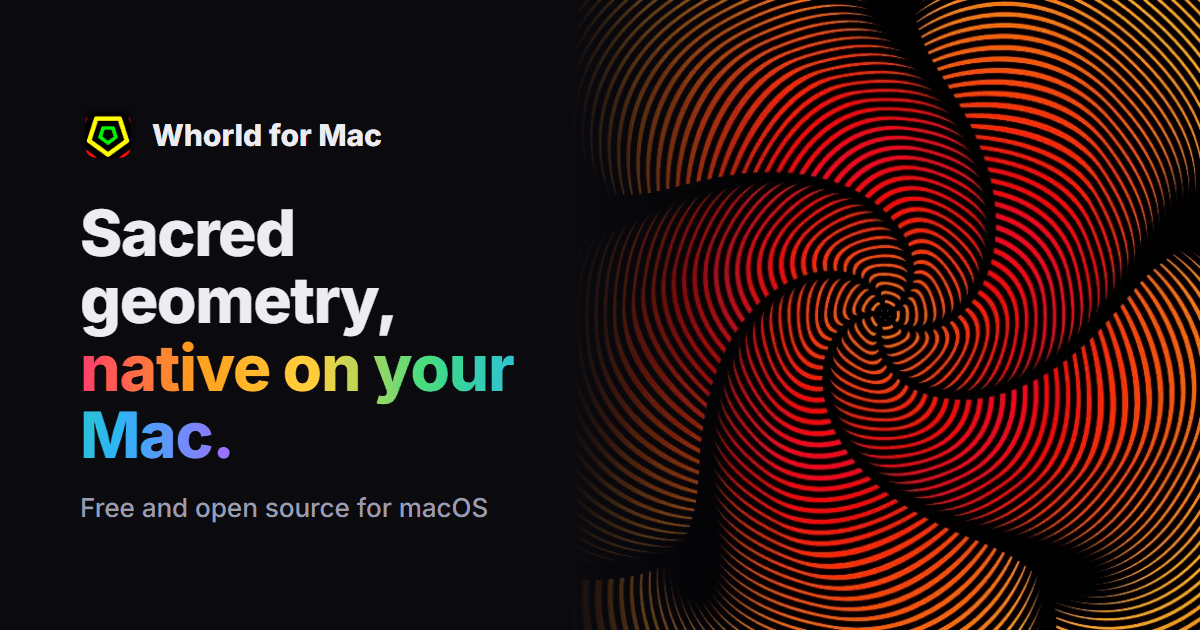
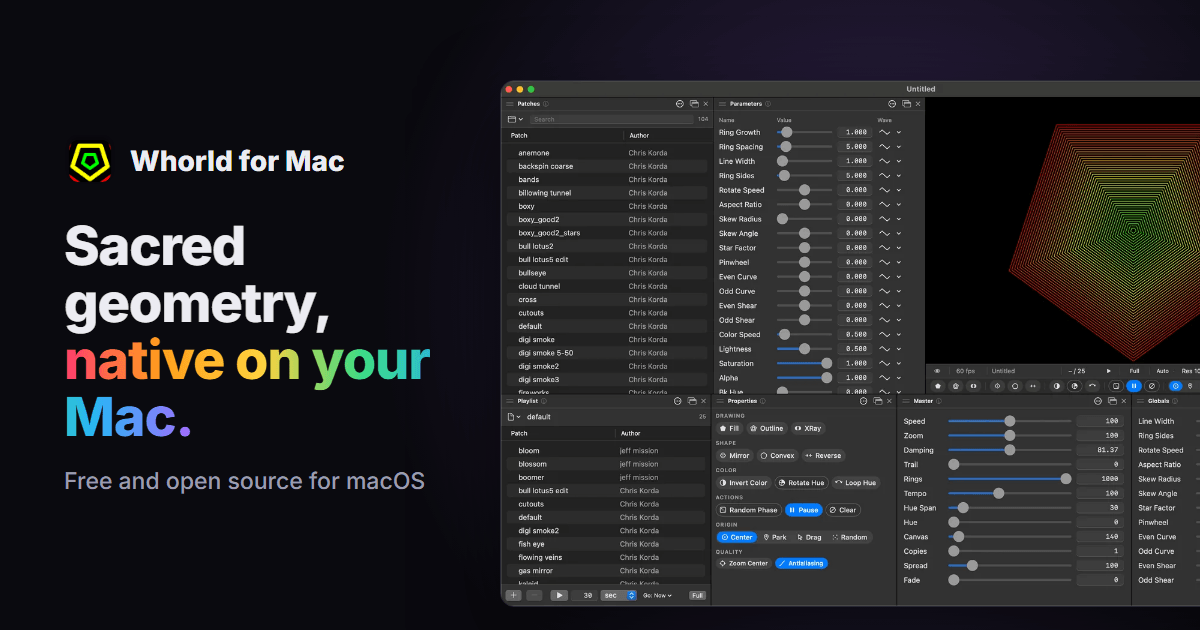
Website: "The app" section with a screenshot of the Mac app, also the social preview

diff --git a/site/social-preview.html b/site/social-preview.html
@@ -18,19 +18,22 @@
 <link href="https://fonts.googleapis.com/css2?family=Inter:wght@500;800&display=swap" rel="stylesheet">
 <style>
   html, body { margin: 0; width: 1200px; height: 630px; overflow: hidden; }
-  body {
-    background: #0a0a0f; color: #ececf2; font-family: Inter, system-ui, sans-serif;
-    display: grid; grid-template-columns: 1fr 630px; align-items: center;
+  body { background: #0a0a0f; color: #ececf2; font-family: Inter, system-ui, sans-serif; position: relative; }
+  body::before {
+    content: ""; position: absolute; left: 380px; top: -200px; width: 1000px; height: 1000px;
+    background: radial-gradient(closest-side, rgba(166,108,255,.28), transparent);
   }
-  .text { padding: 0 40px 0 80px; }
-  .brand { display: flex; align-items: center; gap: 16px; font-weight: 800; font-size: 30px; }
-  .brand img { width: 56px; height: 56px; }
-  h1 { font-size: 64px; line-height: 1.05; letter-spacing: -.02em; margin: 36px 0 24px; font-weight: 800; }
+  .text { position: absolute; left: 64px; top: 0; bottom: 0; width: 400px; display: flex; flex-direction: column; justify-content: center; }
+  .brand { display: flex; align-items: center; gap: 14px; font-weight: 800; font-size: 28px; }
+  .brand img { width: 52px; height: 52px; }
+  h1 { font-size: 54px; line-height: 1.06; letter-spacing: -.02em; margin: 30px 0 22px; font-weight: 800; }
   h1 span { background: linear-gradient(90deg, #ff3d6e, #ff9f1c, #ffd23f, #3ddc84, #29b6f6, #a66cff); -webkit-background-clip: text; background-clip: text; color: transparent; }
-  p { margin: 0; color: #9c9cae; font-size: 26px; font-weight: 500; }
-  .art { width: 630px; height: 630px; position: relative; }
-  .art img { width: 100%; height: 100%; object-fit: cover; display: block; }
-  .art::before { content: ""; position: absolute; inset: 0; background: linear-gradient(90deg, #0a0a0f, transparent 35%); }
+  p { margin: 0; color: #9c9cae; font-size: 23px; font-weight: 500; }
+  .shot {
+    position: absolute; left: 500px; top: 80px; width: 840px;
+    border-radius: 14px; border: 1px solid #272733;
+    box-shadow: 0 30px 80px rgba(0,0,0,.6);
+  }
 </style>
 </head>
 <body>
@@ -39,6 +42,6 @@
     <h1>Sacred geometry, <span>native on your Mac.</span></h1>
     <p>Free and open source for macOS</p>
   </div>
-  <div class="art"><img src="img/bloom.webp" alt=""></div>
+  <img class="shot" src="img/app-1400.webp" alt="">
 </body>
 </html>

diff --git a/site/index.html b/site/index.html
@@ -161,6 +161,12 @@
   }
   .card .ico svg { width: 20px; height: 20px; }
 
+  /* The app */
+  .shot {
+    width: 100%; border-radius: 12px; border: 1px solid var(--border);
+    box-shadow: 0 20px 60px rgba(0,0,0,.35); background: #1e1e1e;
+  }
+
   /* Gallery */
   .gallery { display: grid; gap: 12px; grid-template-columns: repeat(4, minmax(0, 1fr)); margin: 0; padding: 0; list-style: none; }
   @media (max-width: 760px) { .gallery { grid-template-columns: repeat(2, minmax(0, 1fr)); } }
@@ -217,6 +223,7 @@
       Whorld for Mac
     </a>
     <div class="links">
+      <a href="#app">The app</a>
       <a href="#features">Features</a>
       <a href="#gallery">Gallery</a>
       <a href="#install">Install</a>
@@ -258,6 +265,19 @@
     </div>
   </div>
 </header>
+
+<section id="app" class="alt">
+  <div class="wrap">
+    <h2>The app</h2>
+    <p class="sub">The picture sits among panels for patches, parameters, the playlist and properties. Drag them to dock, float or tab them, and switch between layouts with a key.</p>
+    <img class="shot"
+      src="img/app-1400.webp"
+      srcset="img/app-800.webp 800w, img/app-1400.webp 1400w, img/app-2100.webp 2100w"
+      sizes="(max-width: 1080px) calc(100vw - 32px), 1048px"
+      width="1400" height="875" loading="lazy"
+      alt="Whorld's window on a Mac: the Patches list, Parameters sliders, Playlist, Properties, Master and Globals panels around the picture, which shows nested pentagons shading from red to green.">
+  </div>
+</section>
 
 <section id="features">
   <div class="wrap">

diff --git a/CLAUDE.md b/CLAUDE.md
@@ -41,8 +41,8 @@ Run the engine tests after every engine change. Build the app after every change
 https://whorld.sqrl.biz is the hand-written page in `site/` (one `index.html`, no build step), published to GitHub Pages by `.github/workflows/pages.yml` on every push to `main` that touches `site/`. It's in `site/`, not `docs/`, because `docs/` is the original Whorld's website from upstream: leave it alone. The custom domain is set in the repository's Pages settings (with a workflow, a `CNAME` file isn't used); its DNS is a proxied `whorld` record in the sqrl.biz Cloudflare zone (like oopl and oscvlc), so Cloudflare, not GitHub, serves the HTTPS certificate and GitHub's "Enforce HTTPS" stays off. The page matches the user's other project sites (glim, oopl and oscvlc.sqrl.biz): Inter, dark by default with a light theme, and the Made with AI badge.
 
 - The Download button finds the newest full release's `.dmg` (or, while there is none, the newest pre-release's) through GitHub's API, so it needs no edit per release. Edit the page when features change.
-- Images: `site/img/*.webp` are the centre 640×640 of the golden exports in `mac/testdata/golden` (plus 320px copies); `img/icon-128.png`, `favicon.png` and `apple-touch-icon.png` come from `AppIcon.icns`. Prefer real Mac screenshots if the user supplies some.
-- `site/social-preview.png` (1200×630) is a screenshot of `site/social-preview.html`; re-render it if the title or art changes.
+- Images: `site/img/*.webp` are the centre 640×640 of the golden exports in `mac/testdata/golden` (plus 320px copies); `img/icon-128.png`, `favicon.png` and `apple-touch-icon.png` come from `AppIcon.icns`. `img/app-{800,1400,2100}.webp` is the user's screenshot of the app window (2026-11-28, menu bar cropped off), shown in "The app" section and in the social preview.
+- `site/social-preview.png` (1200×630) is a screenshot of `site/social-preview.html` (the title beside the app screenshot); re-render it if either changes.
 - Never claim a feature the app doesn't have: take wording from the README and release notes.
 
 ## Rules for porting
